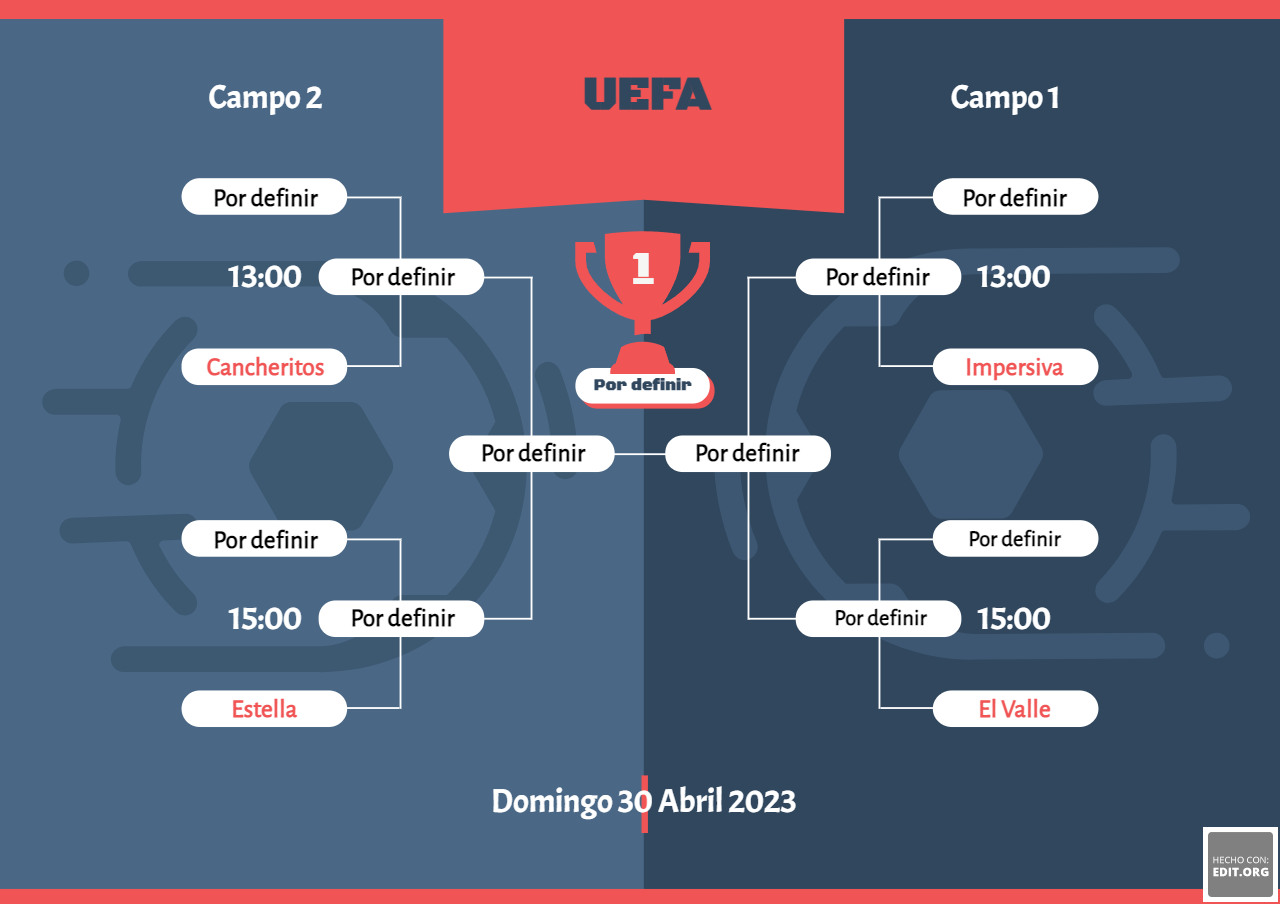
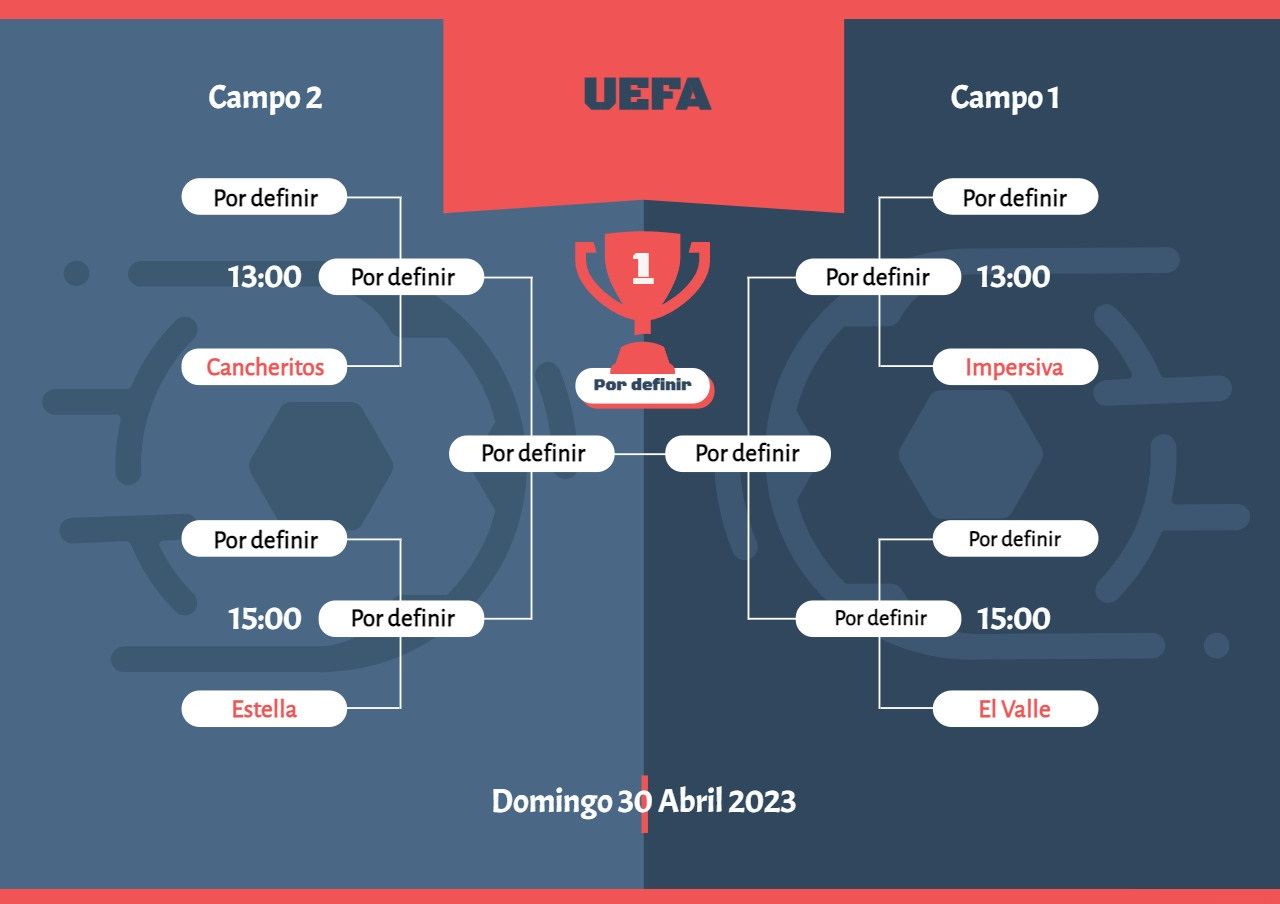
Added champions images

diff --git a/champions.html b/champions.html
@@ -32,7 +32,10 @@
 			</div>
 			<hr>
 		</div>
-		
+		<picture>
+            <source media="(min-width: 900px)" srcset="assets/img/champions-pc.jpg">
+            <img src="assets/img/champions-mobile.jpg" alt="UEFA" class="img-uefa">
+        </picture>
 	</div>
 </body>
 </html>
